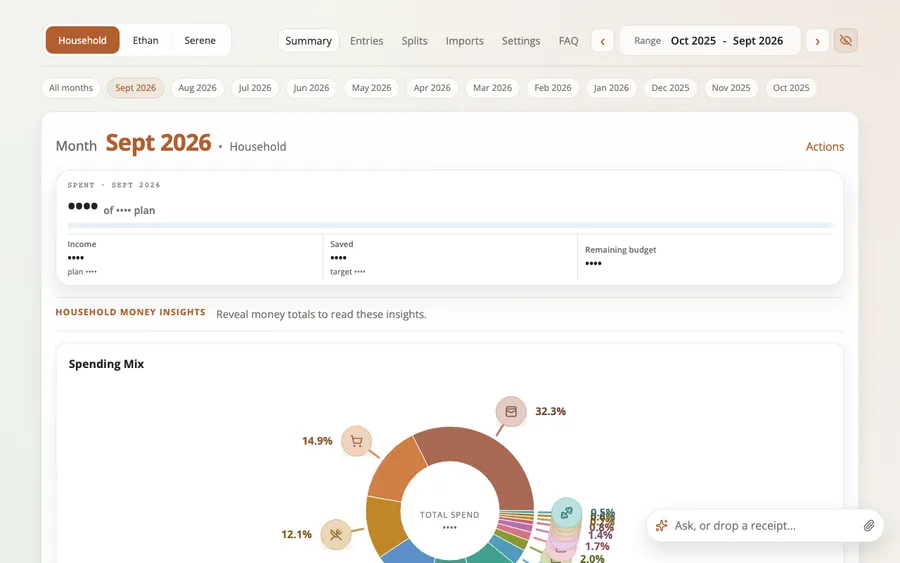
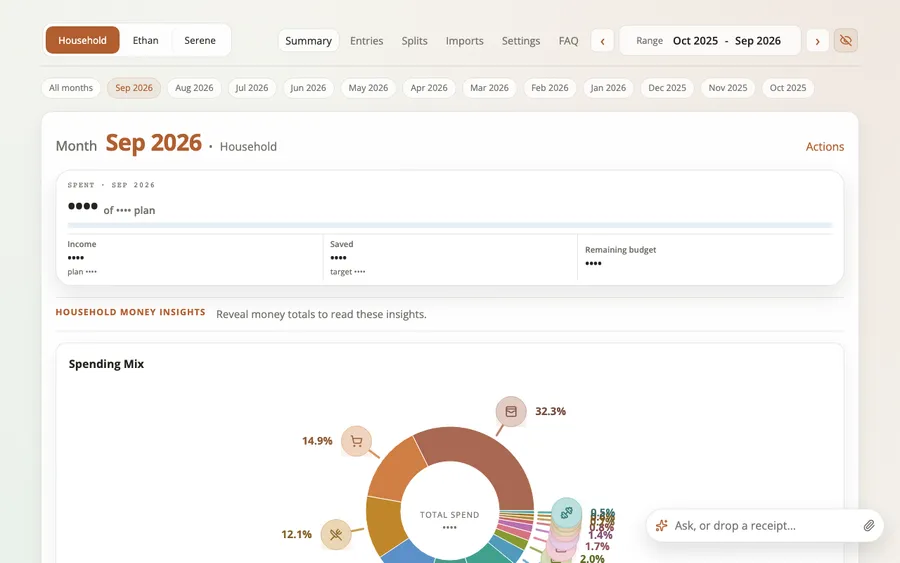
Spell September Sep in every short month; an open Intent vs Outcome card takes the full grid row

diff --git a/tests/e2e/summary-month-lsd.spec.js b/tests/e2e/summary-month-lsd.spec.js
@@ -20,7 +20,7 @@ const SUMMARY_URL = `/summary?view=${VIEW}&month=${MONTH}&scope=direct_plus_shar
 const INK = { in: "rgb(23, 104, 74)", short: "rgb(163, 53, 42)", plan: "rgb(47, 91, 134)", text: "rgb(38, 35, 31)", muted: "rgb(115, 111, 105)" };
 const SIGN_WORDING = /\b(To allocate|Overplanned|over plan|under plan|% of plan)\b|[-−]\s?••••/;
 const money = (minor) => new Intl.NumberFormat("en-SG", { style: "currency", currency: "SGD" }).format(minor / 100);
-const monthLabel = (month) => new Intl.DateTimeFormat("en-SG", { month: "short", year: "numeric", timeZone: "UTC" }).format(new Date(`${month}-01T00:00:00Z`));
+const monthLabel = (month) => new Intl.DateTimeFormat("en-SG", { month: "short", year: "numeric", timeZone: "UTC" }).format(new Date(`${month}-01T00:00:00Z`)).replace(/\bSept\b/, "Sep");
 // The phone the owner tests on; `npm run test:e2e:webkit` runs it in WebKit.
 const { defaultBrowserType: _browser, ...iPhone13 } = devices["iPhone 13"];
 
@@ -393,7 +393,7 @@ test.describe("desktop", () => {
     await expect(row.locator(".month-actual-drilldown")).toHaveText(money(budgets[0].actualMinor));
   });
 
-  test("Intent vs Outcome: the month cards are a grid, 3 across at 1440px, 2 across at 1100px, latest first", async ({ page }) => {
+  test("Intent vs Outcome: the month cards are a grid, 3 across at 1440px, 2 across at 1100px, latest first (open, full row)", async ({ page }) => {
     await revealMoney(page);
     await openSummary(page);
     const data = await loadSummaryPage(page, { view: VIEW, month: MONTH, summaryStart: RANGE.start, summaryEnd: RANGE.end });
@@ -402,7 +402,7 @@ test.describe("desktop", () => {
     await expect(cards.first().locator(".summary-month-link")).toHaveText(monthLabel(latest));
     const across = async () => {
       const boxes = [];
-      for (const index of [0, 1, 2, 3]) boxes.push(await box(cards.nth(index)));
+      for (const index of [1, 2, 3, 4]) boxes.push(await box(cards.nth(index)));
       return boxes.filter((card) => Math.abs(card.y - boxes[0].y) <= 1).length;
     };
     expect(await across()).toBe(3);
@@ -411,9 +411,35 @@ test.describe("desktop", () => {
     await expect.poll(across).toBe(2);
     await expectNoSidewaysScroll(page, ".summary-intent");
     await page.setViewportSize({ width: 1440, height: 900 });
-    const first = await box(cards.first());
+    // The latest month is open, so it is the full first row; the folded
+    // months follow it in order, left to right.
     const second = await box(cards.nth(1));
-    expect(second.x, "the second month is to the right of the latest").toBeGreaterThan(first.x);
+    const third = await box(cards.nth(2));
+    expect(third.x, "months run left to right, latest first").toBeGreaterThan(second.x);
+  });
+
+  test("Intent vs Outcome: a card with its Details open spans the whole grid row, so no gap sits beside it", async ({ page }) => {
+    await revealMoney(page);
+    await openSummary(page);
+    const grid = page.locator(".summary-intent-months");
+    const cards = page.locator(".summary-intent-month");
+    const gridBox = await box(grid);
+    // The latest month starts open: it takes the full row.
+    const first = await box(cards.first());
+    expect(first.width).toBeGreaterThanOrEqual(gridBox.width - 1);
+    // The next two folded months share the row below it.
+    const second = await box(cards.nth(1));
+    const third = await box(cards.nth(2));
+    expect(second.y).toBeGreaterThan(first.bottom - 1);
+    expect(Math.abs(third.y - second.y)).toBeLessThanOrEqual(1);
+    // Opening another month's Details takes that card to a full row too.
+    await cards.nth(1).getByRole("button", { name: /^Details/ }).click();
+    const opened = await box(cards.nth(1));
+    expect(opened.width).toBeGreaterThanOrEqual(gridBox.width - 1);
+    // Folding the latest again puts it back in the grid beside the next one.
+    await cards.first().getByRole("button", { name: /^Details/ }).click();
+    const folded = await box(cards.first());
+    expect(folded.width).toBeLessThan(gridBox.width - 100);
   });
 
   test("Intent vs Outcome: the same cards, the note row edits the month note", async ({ page }) => {

diff --git a/src/client/formatters.js b/src/client/formatters.js
@@ -1,5 +1,6 @@
 import { formatCurrencyMinor } from "../domain/split-currency";
 import { APP_TIME_ZONE } from "./app-dates";
+import { shortMonthText } from "../lib/short-month";
 
 const moneyFormatter = new Intl.NumberFormat("en-SG", {
   style: "currency",
@@ -61,20 +62,20 @@ export function decimalStringToMinor(value) {
 }
 
 export function formatDate(value) {
-  return new Intl.DateTimeFormat("en-SG", {
+  return shortMonthText(new Intl.DateTimeFormat("en-SG", {
     timeZone: APP_TIME_ZONE,
     dateStyle: "medium",
     timeStyle: "short"
-  }).format(parseDisplayDate(value));
+  }).format(parseDisplayDate(value)));
 }
 
 export function formatDateOnly(value) {
-  return new Intl.DateTimeFormat("en-SG", {
+  return shortMonthText(new Intl.DateTimeFormat("en-SG", {
     timeZone: APP_TIME_ZONE,
     month: "short",
     day: "numeric",
     year: "numeric"
-  }).format(parseDisplayDate(value));
+  }).format(parseDisplayDate(value)));
 }
 
 function parseDisplayDate(value) {
@@ -92,10 +93,10 @@ function parseDisplayDate(value) {
 
 export function formatMonthLabel(value) {
   const [year, month] = value.split("-");
-  return new Intl.DateTimeFormat("en-SG", {
+  return shortMonthText(new Intl.DateTimeFormat("en-SG", {
     month: "short",
     year: "numeric"
-  }).format(new Date(Number(year), Number(month) - 1, 1));
+  }).format(new Date(Number(year), Number(month) - 1, 1)));
 }
 
 export function formatMinorInput(valueMinor) {

diff --git a/tests/e2e/ask-page.spec.js b/tests/e2e/ask-page.spec.js
@@ -51,7 +51,7 @@ test.describe("the Ask page on a phone", () => {
     await expect(page.getByRole("heading", { name: "Ask", exact: true })).toBeVisible();
     // The context line names the person, scope and the month in view.
     const month = new URL(page.url()).searchParams.get("month");
-    const monthLabel = new Date(`${month}-01T00:00:00Z`).toLocaleString("en-SG", { month: "short", year: "numeric", timeZone: "UTC" });
+    const monthLabel = new Date(`${month}-01T00:00:00Z`).toLocaleString("en-SG", { month: "short", year: "numeric", timeZone: "UTC" }).replace(/\bSept\b/, "Sep");
     await expect(page.locator(".ask-context")).toHaveText(`Tim · Direct + Shared · ${monthLabel}`);
     const chips = page.getByRole("group", { name: "Suggestions" }).getByRole("button");
     await expect(chips).toHaveText(["Scan receipt", "Paste", "Add entry", "Add expense"]);

diff --git a/src/client/summary-month-sheet.jsx b/src/client/summary-month-sheet.jsx
@@ -7,6 +7,7 @@ import { PrivateMoney, useMoneyPrivacy } from "./money-privacy";
 import { SheetSwipeDismiss } from "./sheet-swipe";
 import { buildMonthSheetModel, PLAN_TONE_CLASS } from "./summary-month-choice";
 import "./summary-month-sheet.css";
+import { shortMonthText } from "../lib/short-month";
 
 const copy = messages.summary.monthChoice;
 // Tiles show whole dollars so three fit across a phone; the All months card
@@ -21,7 +22,7 @@ const shortMonthFormatter = new Intl.DateTimeFormat("en-SG", { month: "short" })
 
 function shortMonthLabel(month) {
   const [year, monthNumber] = month.split("-").map(Number);
-  return shortMonthFormatter.format(new Date(year, monthNumber - 1, 1));
+  return shortMonthText(shortMonthFormatter.format(new Date(year, monthNumber - 1, 1)));
 }
 
 // Spend against plan as a thin bar: the track is the plan, the fill what was

diff --git a/src/domain/foreign-currency.ts b/src/domain/foreign-currency.ts
@@ -1,3 +1,5 @@
+import { shortMonthText } from "../lib/short-month";
+
 // Foreign-currency Wallet amounts (DOMAIN.md, "Foreign Currency Estimate").
 // A card in one currency can be charged in another: an Amaze card in
 // Singapore turns a purchase in Bali (IDR) into an SGD charge on the linked
@@ -120,7 +122,7 @@ async function fetchRate(base: string, quote: string, fetchImpl: FetchImpl) {
 }
 
 function formatRateDate(rateDate: string) {
-  return new Intl.DateTimeFormat("en-SG", { day: "numeric", month: "short", year: "numeric", timeZone: "UTC" }).format(new Date(`${rateDate}T00:00:00Z`));
+  return shortMonthText(new Intl.DateTimeFormat("en-SG", { day: "numeric", month: "short", year: "numeric", timeZone: "UTC" }).format(new Date(`${rateDate}T00:00:00Z`)));
 }
 
 async function ensureFxRatesTable(db: D1Database) {

diff --git a/tests/e2e/summary-month-choice.spec.js b/tests/e2e/summary-month-choice.spec.js
@@ -15,7 +15,7 @@ const moneyFormatter = new Intl.NumberFormat("en-SG", { style: "currency", curre
 const wholeMoneyFormatter = new Intl.NumberFormat("en-SG", { style: "currency", currency: "SGD", minimumFractionDigits: 0, maximumFractionDigits: 0 });
 const monthLabel = (month) => {
   const [year, number] = month.split("-").map(Number);
-  return new Intl.DateTimeFormat("en-SG", { month: "short", year: "numeric" }).format(new Date(year, number - 1, 1));
+  return new Intl.DateTimeFormat("en-SG", { month: "short", year: "numeric" }).format(new Date(year, number - 1, 1)).replace(/\bSept\b/, "Sep");
 };
 
 async function waitUsable(page) {

diff --git a/src/client/split-helpers.js b/src/client/split-helpers.js
@@ -1,4 +1,5 @@
 import { moneyWithCurrency } from "./formatters";
+import { shortMonthText } from "../lib/short-month";
 
 export function groupSplitActivityByDate(items) {
   const grouped = new Map();
@@ -40,7 +41,7 @@ export function groupSplitActivityByBatch(items) {
 
 export function formatArchiveDate(date) {
   const value = new Date(`${date}T00:00:00`);
-  return new Intl.DateTimeFormat("en-SG", { month: "short", day: "2-digit" }).format(value);
+  return shortMonthText(new Intl.DateTimeFormat("en-SG", { month: "short", day: "2-digit" }).format(value));
 }
 
 export function getArchivedBatchSummary(batch, viewId) {

diff --git a/src/client/table-helpers.js b/src/client/table-helpers.js
@@ -1,4 +1,5 @@
 import { messages } from "./copy/en-SG";
+import { shortMonthText } from "../lib/short-month";
 
 export function sortRows(rows, sort, monthKey = "") {
   if (!sort) {
@@ -56,8 +57,8 @@ export function formatRowDateLabel(row, fallbackMonth) {
   }
 
   const [year, month, day] = value.split("-");
-  return new Intl.DateTimeFormat("en-SG", {
+  return shortMonthText(new Intl.DateTimeFormat("en-SG", {
     month: "short",
     day: "numeric"
-  }).format(new Date(Number(year), Number(month) - 1, Number(day)));
+  }).format(new Date(Number(year), Number(month) - 1, Number(day))));
 }

diff --git a/tests/e2e/month-spending-mix.spec.js b/tests/e2e/month-spending-mix.spec.js
@@ -17,7 +17,7 @@ const formatMoney = (minor) => moneyFormatter.format(minor / 100);
 const sumMinor = (data) => data.reduce((sum, item) => sum + item.valueMinor, 0);
 const monthLabel = (month) => {
   const [year, number] = month.split("-").map(Number);
-  return new Intl.DateTimeFormat("en-SG", { month: "short", year: "numeric" }).format(new Date(year, number - 1, 1));
+  return new Intl.DateTimeFormat("en-SG", { month: "short", year: "numeric" }).format(new Date(year, number - 1, 1)).replace(/\bSept\b/, "Sep");
 };
 
 async function waitUsable(page) {

diff --git a/src/client/summary-intent-outcome.css b/src/client/summary-intent-outcome.css
@@ -128,6 +128,12 @@ html[data-money-privacy="hidden"] .summary-intent-plan.money-plan {
     grid-template-columns: repeat(2, minmax(0, 1fr));
     align-items: start;
   }
+
+  /* A card with its Details open is the full row, so nothing leaves a gap
+     beside it. */
+  .summary-intent-month:has(.lsd-row-more.is-open) {
+    grid-column: 1 / -1;
+  }
 }
 
 @media (min-width: 1440px) {

diff --git a/src/lib/short-month.ts b/src/lib/short-month.ts
@@ -1,0 +1,6 @@
+// Newer ICU data (Node 22, current browsers) spells September "Sept" in
+// en-SG's short form. The app writes "Sep", as every other short month is
+// three letters, so every short month or date format passes its text here.
+export function shortMonthText(text: string): string {
+  return text.replace(/\bSept\b/g, "Sep");
+}

diff --git a/design.md b/design.md
@@ -686,7 +686,7 @@ Where it is used:
   rows (Income, Expected spend, Savings goal: planned, actual, variance) and
   the month note row, which edits the note. The latest month starts open,
   the others fold. From 1,024 px the cards are a grid, 2 across (3 from 1,440
-  px), latest first, and the section takes the full row under Spending Mix. Hidden money: dots in plain ink, the bar's track only, no
+  px), latest first; a card with its Details open spans the whole row so no gap sits beside it, and the section takes the full row under Spending Mix. Hidden money: dots in plain ink, the bar's track only, no
   percent and no under/over words, the variance dots too.
   `tests/e2e/summary-month-lsd.spec.js` compares every figure with the page
   DTO on a phone (WebKit-tagged) and a desktop, and checks 390 px for
